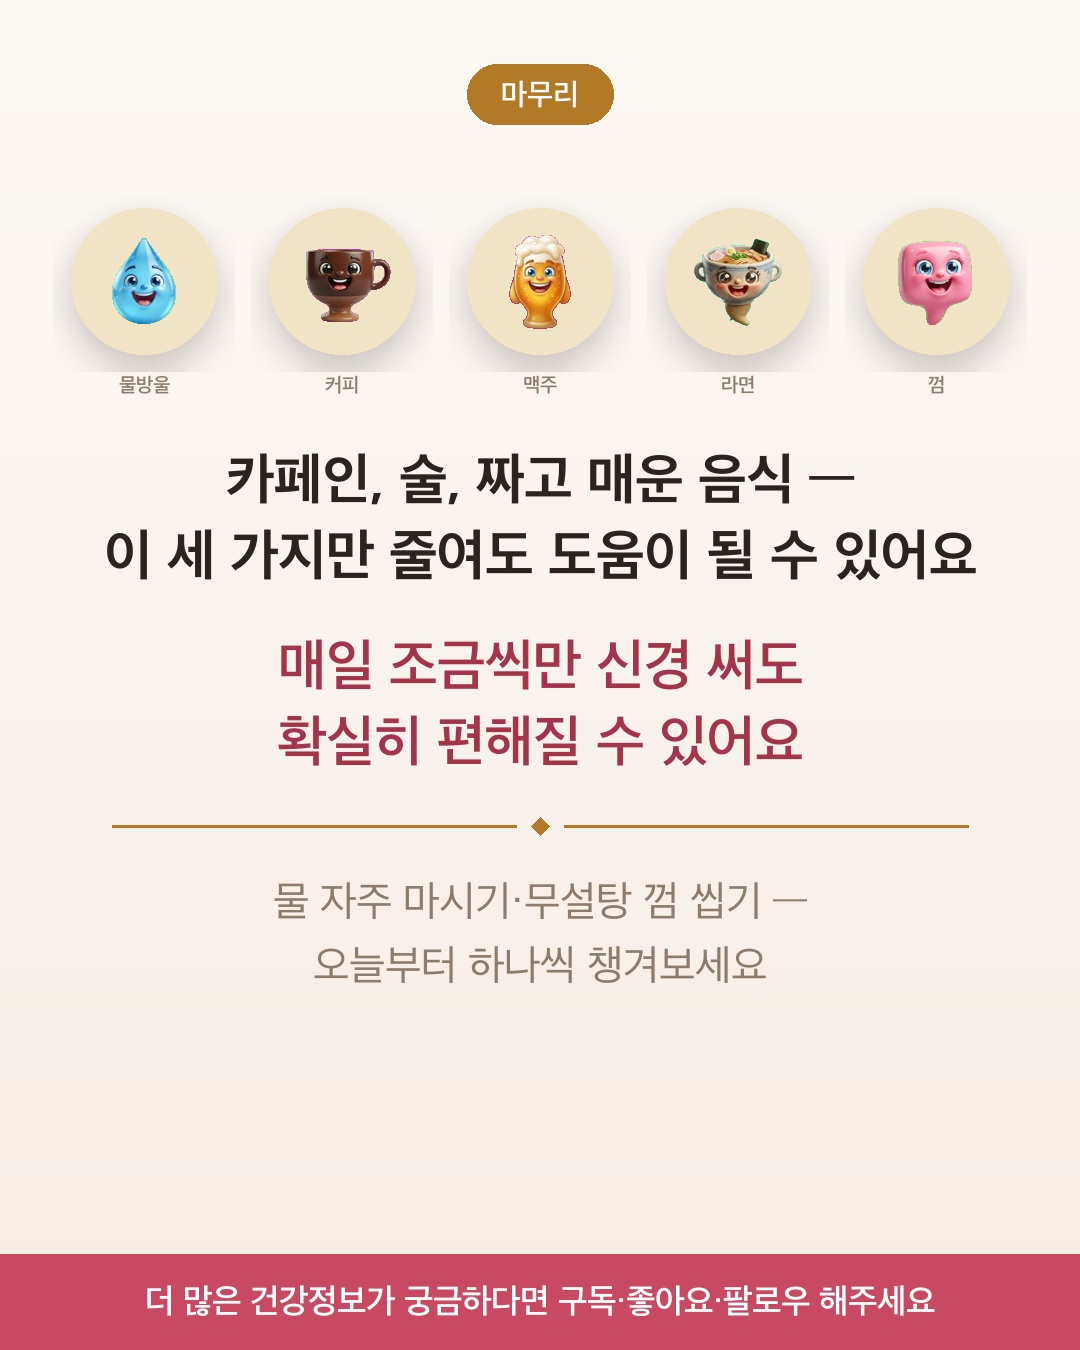
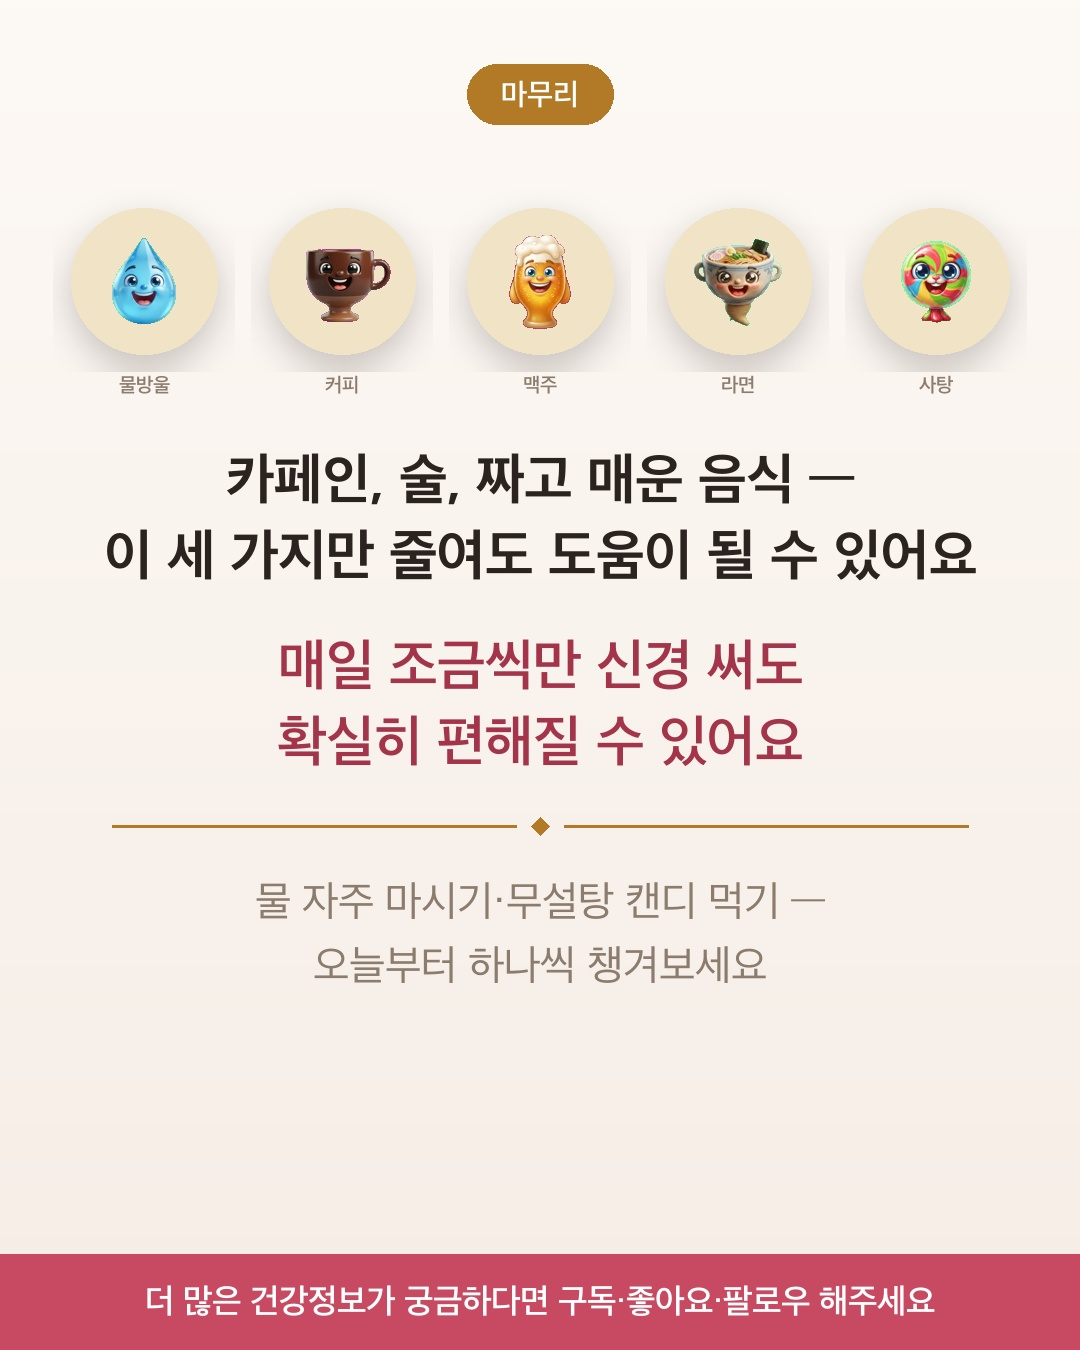
fix(content): 입_6 무설탕 껌 → 무설탕 캔디 (소싱 불가 상품 교체)
무설탕 껌은 쿠팡/네이버에서 파트너스 링크 소싱이 안 되는 상품이라는
지적 반영 — products 필드·캡션 전체·카드뉴스 마무리 카드 아이콘(사탕_illust.jpg)
전부 무설탕 캔디로 교체.

Changed region(s): [[0.2444, 0.6533, 0.7333, 0.6844], [0.825, 0.1556, 0.9167, 0.2489], [0.8556, 0.28, 0.8861, 0.3111]]

diff --git a/output/입_6/ko/dashboard.html b/output/입_6/ko/dashboard.html
@@ -235,20 +235,20 @@
 <div class="dock-product-row" id="dock-row-0">
   <div class="dock-product-head">
     <button class="row-toggle" data-row="dock-row-0" title="링크 넣기">🔗</button>
-    <span class="dock-product-name">무설탕 껌</span>
+    <span class="dock-product-name">무설탕 캔디</span>
   </div>
   <div class="dock-product-market">
-    <a href="https://www.coupang.com/np/search?component=&q=%EB%AC%B4%EC%84%A4%ED%83%95%20%EA%BB%8C&channel=user" target="_blank" rel="noopener">🛒 쿠팡 검색</a>
-    <button type="button" class="copy-market-link" data-url="https://www.coupang.com/np/search?component=&q=%EB%AC%B4%EC%84%A4%ED%83%95%20%EA%BB%8C&channel=user" title="검색 링크 복사 — 파트너스 링크 생성기에 붙여넣기용">🔎 복사</button>
+    <a href="https://www.coupang.com/np/search?component=&q=%EB%AC%B4%EC%84%A4%ED%83%95%20%EC%BA%94%EB%94%94&channel=user" target="_blank" rel="noopener">🛒 쿠팡 검색</a>
+    <button type="button" class="copy-market-link" data-url="https://www.coupang.com/np/search?component=&q=%EB%AC%B4%EC%84%A4%ED%83%95%20%EC%BA%94%EB%94%94&channel=user" title="검색 링크 복사 — 파트너스 링크 생성기에 붙여넣기용">🔎 복사</button>
     <div class="product-link-row">
-      <input type="text" class="product-link-input" data-market="coupang" data-product="무설탕 껌" value="" placeholder="쿠팡 링크 붙여넣고 Enter">
+      <input type="text" class="product-link-input" data-market="coupang" data-product="무설탕 캔디" value="" placeholder="쿠팡 링크 붙여넣고 Enter">
       <button type="button" class="copy-product-link" title="입력한 파트너스 링크 복사">📋 복사</button>
     </div>
-    <a href="https://brandconnect.naver.com/978391003266240/affiliate/products/search?query=%EB%AC%B4%EC%84%A4%ED%83%95+%EA%BB%8C&tab=product" target="_blank" rel="noopener">🟢 네이버 검색</a>
-    <button type="button" class="copy-market-link" data-url="https://brandconnect.naver.com/978391003266240/affiliate/products/search?query=%EB%AC%B4%EC%84%A4%ED%83%95+%EA%BB%8C&tab=product" title="검색 링크 복사 — 브랜드커넥트 링크 생성기에 붙여넣기용">🔎 복사</button>
+    <a href="https://brandconnect.naver.com/978391003266240/affiliate/products/search?query=%EB%AC%B4%EC%84%A4%ED%83%95+%EC%BA%94%EB%94%94&tab=product" target="_blank" rel="noopener">🟢 네이버 검색</a>
+    <button type="button" class="copy-market-link" data-url="https://brandconnect.naver.com/978391003266240/affiliate/products/search?query=%EB%AC%B4%EC%84%A4%ED%83%95+%EC%BA%94%EB%94%94&tab=product" title="검색 링크 복사 — 브랜드커넥트 링크 생성기에 붙여넣기용">🔎 복사</button>
     
     <div class="product-link-row">
-      <input type="text" class="product-link-input" data-market="naver" data-product="무설탕 껌" value="" placeholder="네이버 커넥트 링크 붙여넣고 Enter">
+      <input type="text" class="product-link-input" data-market="naver" data-product="무설탕 캔디" value="" placeholder="네이버 커넥트 링크 붙여넣고 Enter">
       <button type="button" class="copy-product-link" title="입력한 네이버 커넥트 링크 복사">📋 복사</button>
     </div>
   </div>
@@ -350,7 +350,7 @@
 08 · 마무리
 
 
-카페인, 술, 짜고 매운 음식 — 이 세 가지만 줄여도 도움이 될 수 있어요. 구강건조증 원인은 다양하지만, 매일 조금씩만 신경 써도 확실히 편해질 수 있어요. 물 자주 마시기, 무설탕 껌 씹기 — 오늘부터 하나씩 챙겨보세요.
+카페인, 술, 짜고 매운 음식 — 이 세 가지만 줄여도 도움이 될 수 있어요. 구강건조증 원인은 다양하지만, 매일 조금씩만 신경 써도 확실히 편해질 수 있어요. 물 자주 마시기, 무설탕 캔디 먹기 — 오늘부터 하나씩 챙겨보세요.
 
 이 글은 건강 정보를 위한 것으로, 정확한 진단과 치료는 의료 전문가와 상담하시기 바랍니다.
 
@@ -424,7 +424,7 @@
 08 · 마무리
 
 
-카페인, 술, 짜고 매운 음식 이 세 가지만 줄여도 도움이 될 수 있어요. 구강건조증 원인은 다양하지만, 매일 조금씩만 신경 써도 확실히 편해질 수 있어요. 물 자주 마시기, 무설탕 껌 씹기 — 오늘부터 하나씩 실천해보세요.
+카페인, 술, 짜고 매운 음식 이 세 가지만 줄여도 도움이 될 수 있어요. 구강건조증 원인은 다양하지만, 매일 조금씩만 신경 써도 확실히 편해질 수 있어요. 물 자주 마시기, 무설탕 캔디 먹기 — 오늘부터 하나씩 실천해보세요.
 
 이 글은 건강 정보를 위한 것으로, 정확한 진단과 치료는 의료 전문가와 상담하시기 바랍니다.
 
@@ -440,7 +440,7 @@
 </section>
 
 
-<section class="bottom-product-links"><h2>상품 링크</h2><button type="button" class="copy-comment-links">💬 댓글용 링크 텍스트 복사</button><div class="bottom-product-row"><span class="bottom-product-name">무설탕 껌</span><a href="https://www.coupang.com/np/search?component=&q=%EB%AC%B4%EC%84%A4%ED%83%95%20%EA%BB%8C&channel=user" target="_blank" rel="noopener">🛒 쿠팡 검색</a><span class="bottom-product-nolink">등록된 링크 없음</span><span class="bottom-product-nolink">네이버 링크 없음</span></div><div class="bottom-product-row"><span class="bottom-product-name">가글액</span><a href="https://www.coupang.com/np/search?component=&q=%EA%B0%80%EA%B8%80%EC%95%A1&channel=user" target="_blank" rel="noopener">🛒 쿠팡 검색</a><span class="bottom-product-nolink">등록된 링크 없음</span><span class="bottom-product-nolink">네이버 링크 없음</span></div><p class="dock-hint">링크 수정은 위쪽 "빠른 도구" 패널의 상품 링크에서 해주세요.</p></section>
+<section class="bottom-product-links"><h2>상품 링크</h2><button type="button" class="copy-comment-links">💬 댓글용 링크 텍스트 복사</button><div class="bottom-product-row"><span class="bottom-product-name">무설탕 캔디</span><a href="https://www.coupang.com/np/search?component=&q=%EB%AC%B4%EC%84%A4%ED%83%95%20%EC%BA%94%EB%94%94&channel=user" target="_blank" rel="noopener">🛒 쿠팡 검색</a><span class="bottom-product-nolink">등록된 링크 없음</span><span class="bottom-product-nolink">네이버 링크 없음</span></div><div class="bottom-product-row"><span class="bottom-product-name">가글액</span><a href="https://www.coupang.com/np/search?component=&q=%EA%B0%80%EA%B8%80%EC%95%A1&channel=user" target="_blank" rel="noopener">🛒 쿠팡 검색</a><span class="bottom-product-nolink">등록된 링크 없음</span><span class="bottom-product-nolink">네이버 링크 없음</span></div><p class="dock-hint">링크 수정은 위쪽 "빠른 도구" 패널의 상품 링크에서 해주세요.</p></section>
 
 <div class="lightbox" id="lightbox"><img id="lightbox-img" src=""></div>
 
@@ -657,7 +657,7 @@ lightbox.addEventListener("click", () => lightbox.classList.remove("open"));
 
 const COUPANG_DISCLOSURE = "\uc774 \uac8c\uc2dc\ubb3c\uc740 \ucfe0\ud321 \ud30c\ud2b8\ub108\uc2a4 \ud65c\ub3d9\uc758 \uc77c\ud658\uc73c\ub85c, \uc774\uc5d0 \ub530\ub978 \uc77c\uc815\uc561\uc758 \uc218\uc218\ub8cc\ub97c \uc81c\uacf5\ubc1b\uc2b5\ub2c8\ub2e4.";
 const NAVER_DISCLOSURE = "\ubcf8 \ud3ec\uc2a4\ud305\uc740 \ub124\uc774\ubc84 \uc1fc\ud551 \ucee4\ub125\ud2b8 \ud65c\ub3d9\uc758 \uc77c\ud658\uc73c\ub85c \ud310\ub9e4 \ubc1c\uc0dd \uc2dc \uc218\uc218\ub8cc\ub97c \uc81c\uacf5\ubc1b\uc2b5\ub2c8\ub2e4.";
-const COMMENT_KEYWORD = "\ubb34\uc124\ud0d5 \uaecc";
+const COMMENT_KEYWORD = "\ubb34\uc124\ud0d5 \uce94\ub514";
 const LINK_STORAGE_PREFIX = "hs_link_%EC%9E%85_6_";
 // WHY 눈에 안 보이는 문자(zero-width space/non-joiner) 두 개로 구간의 시작·끝을
 // 표시: 이전엔 마커 하나로 "여기부터 끝까지"만 표시해서 자동추가 블록이 캡션 맨
